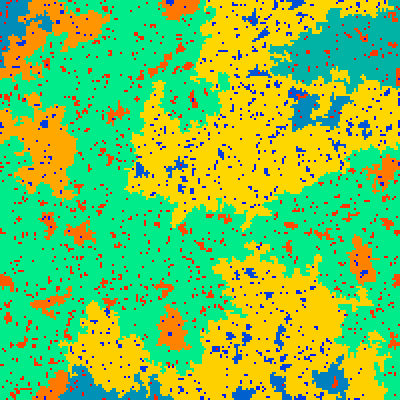
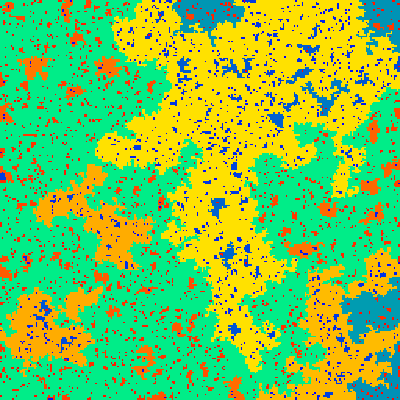
README: lead with an equilibrium spin configuration
Make the main image an equilibrium spin configuration at T_c, with a
table of energy/magnetization traces, correlations, the Wolff demo, and
one cluster picture. Drop the cluster GIF and the three-temperature
cluster row, so cluster statistics are no longer the focus, and restore
the original .gitignore.

diff --git a/README.md b/README.md
@@ -7,22 +7,20 @@ The code demonstrates:
 - Heat bath, Metropolis, and Wolff sampling
 - Energy and magnetization traces
 - Correlation functions and radial averages
-- Cluster-size visualisation and statistics, including an animation of clusters at the critical point
+- Cluster-size visualisation and statistics
 
-![Clusters forming at the critical temperature: spins, clusters colored by size, and the cluster-size distribution](img/critical_clusters.gif)
+![An equilibrium spin configuration at the critical temperature](img/spins_critical.png)
 
-*Heat-bath sampling at the critical temperature, starting from random spins.
-Clusters (up: red to yellow, down: blue to green, small to large) merge and grow, and the cluster-size distribution approaches a power law (earlier frames in gray).*
+*An equilibrium spin configuration of a 256 x 256 lattice at the critical temperature (black = up, white = down).*
 
 <table>
   <tr>
-    <td align="center"><img src="img/clusters_below.png" width="260" alt="Clusters below the critical temperature"><br>Below <i>T</i><sub>c</sub>: one cluster spans the lattice</td>
-    <td align="center"><img src="img/clusters_critical.png" width="260" alt="Clusters at the critical temperature"><br>At <i>T</i><sub>c</sub>: clusters of every size</td>
-    <td align="center"><img src="img/clusters_above.png" width="260" alt="Clusters above the critical temperature"><br>Above <i>T</i><sub>c</sub>: only small clusters</td>
+    <td align="center"><img src="img/energy_magnetization.png" width="420" alt="Energy and magnetization traces and histograms"><br>Energy and magnetization relaxing to equilibrium from random spins (heat bath, 0.85 <i>T</i><sub>c</sub>)</td>
+    <td align="center"><img src="img/correlation.png" width="420" alt="Spin-spin correlation function and its radial average"><br>Spin-spin correlations at <i>T</i><sub>c</sub>, decaying slowly with distance</td>
   </tr>
   <tr>
     <td align="center"><img src="img/wolff_cluster.png" width="260" alt="A Wolff cluster grown from a seed spin"><br>Wolff demo: a cluster (peach) grown from its seed (circled)</td>
-    <td align="center" colspan="2"><img src="img/correlation.png" width="540" alt="Spin-spin correlation function and its radial average"><br>Spin-spin correlations at <i>T</i><sub>c</sub>, decaying slowly with distance</td>
+    <td align="center"><img src="img/clusters_critical.png" width="260" alt="Spin clusters colored by size"><br>Spin clusters at <i>T</i><sub>c</sub>, colored by size</td>
   </tr>
 </table>
 
